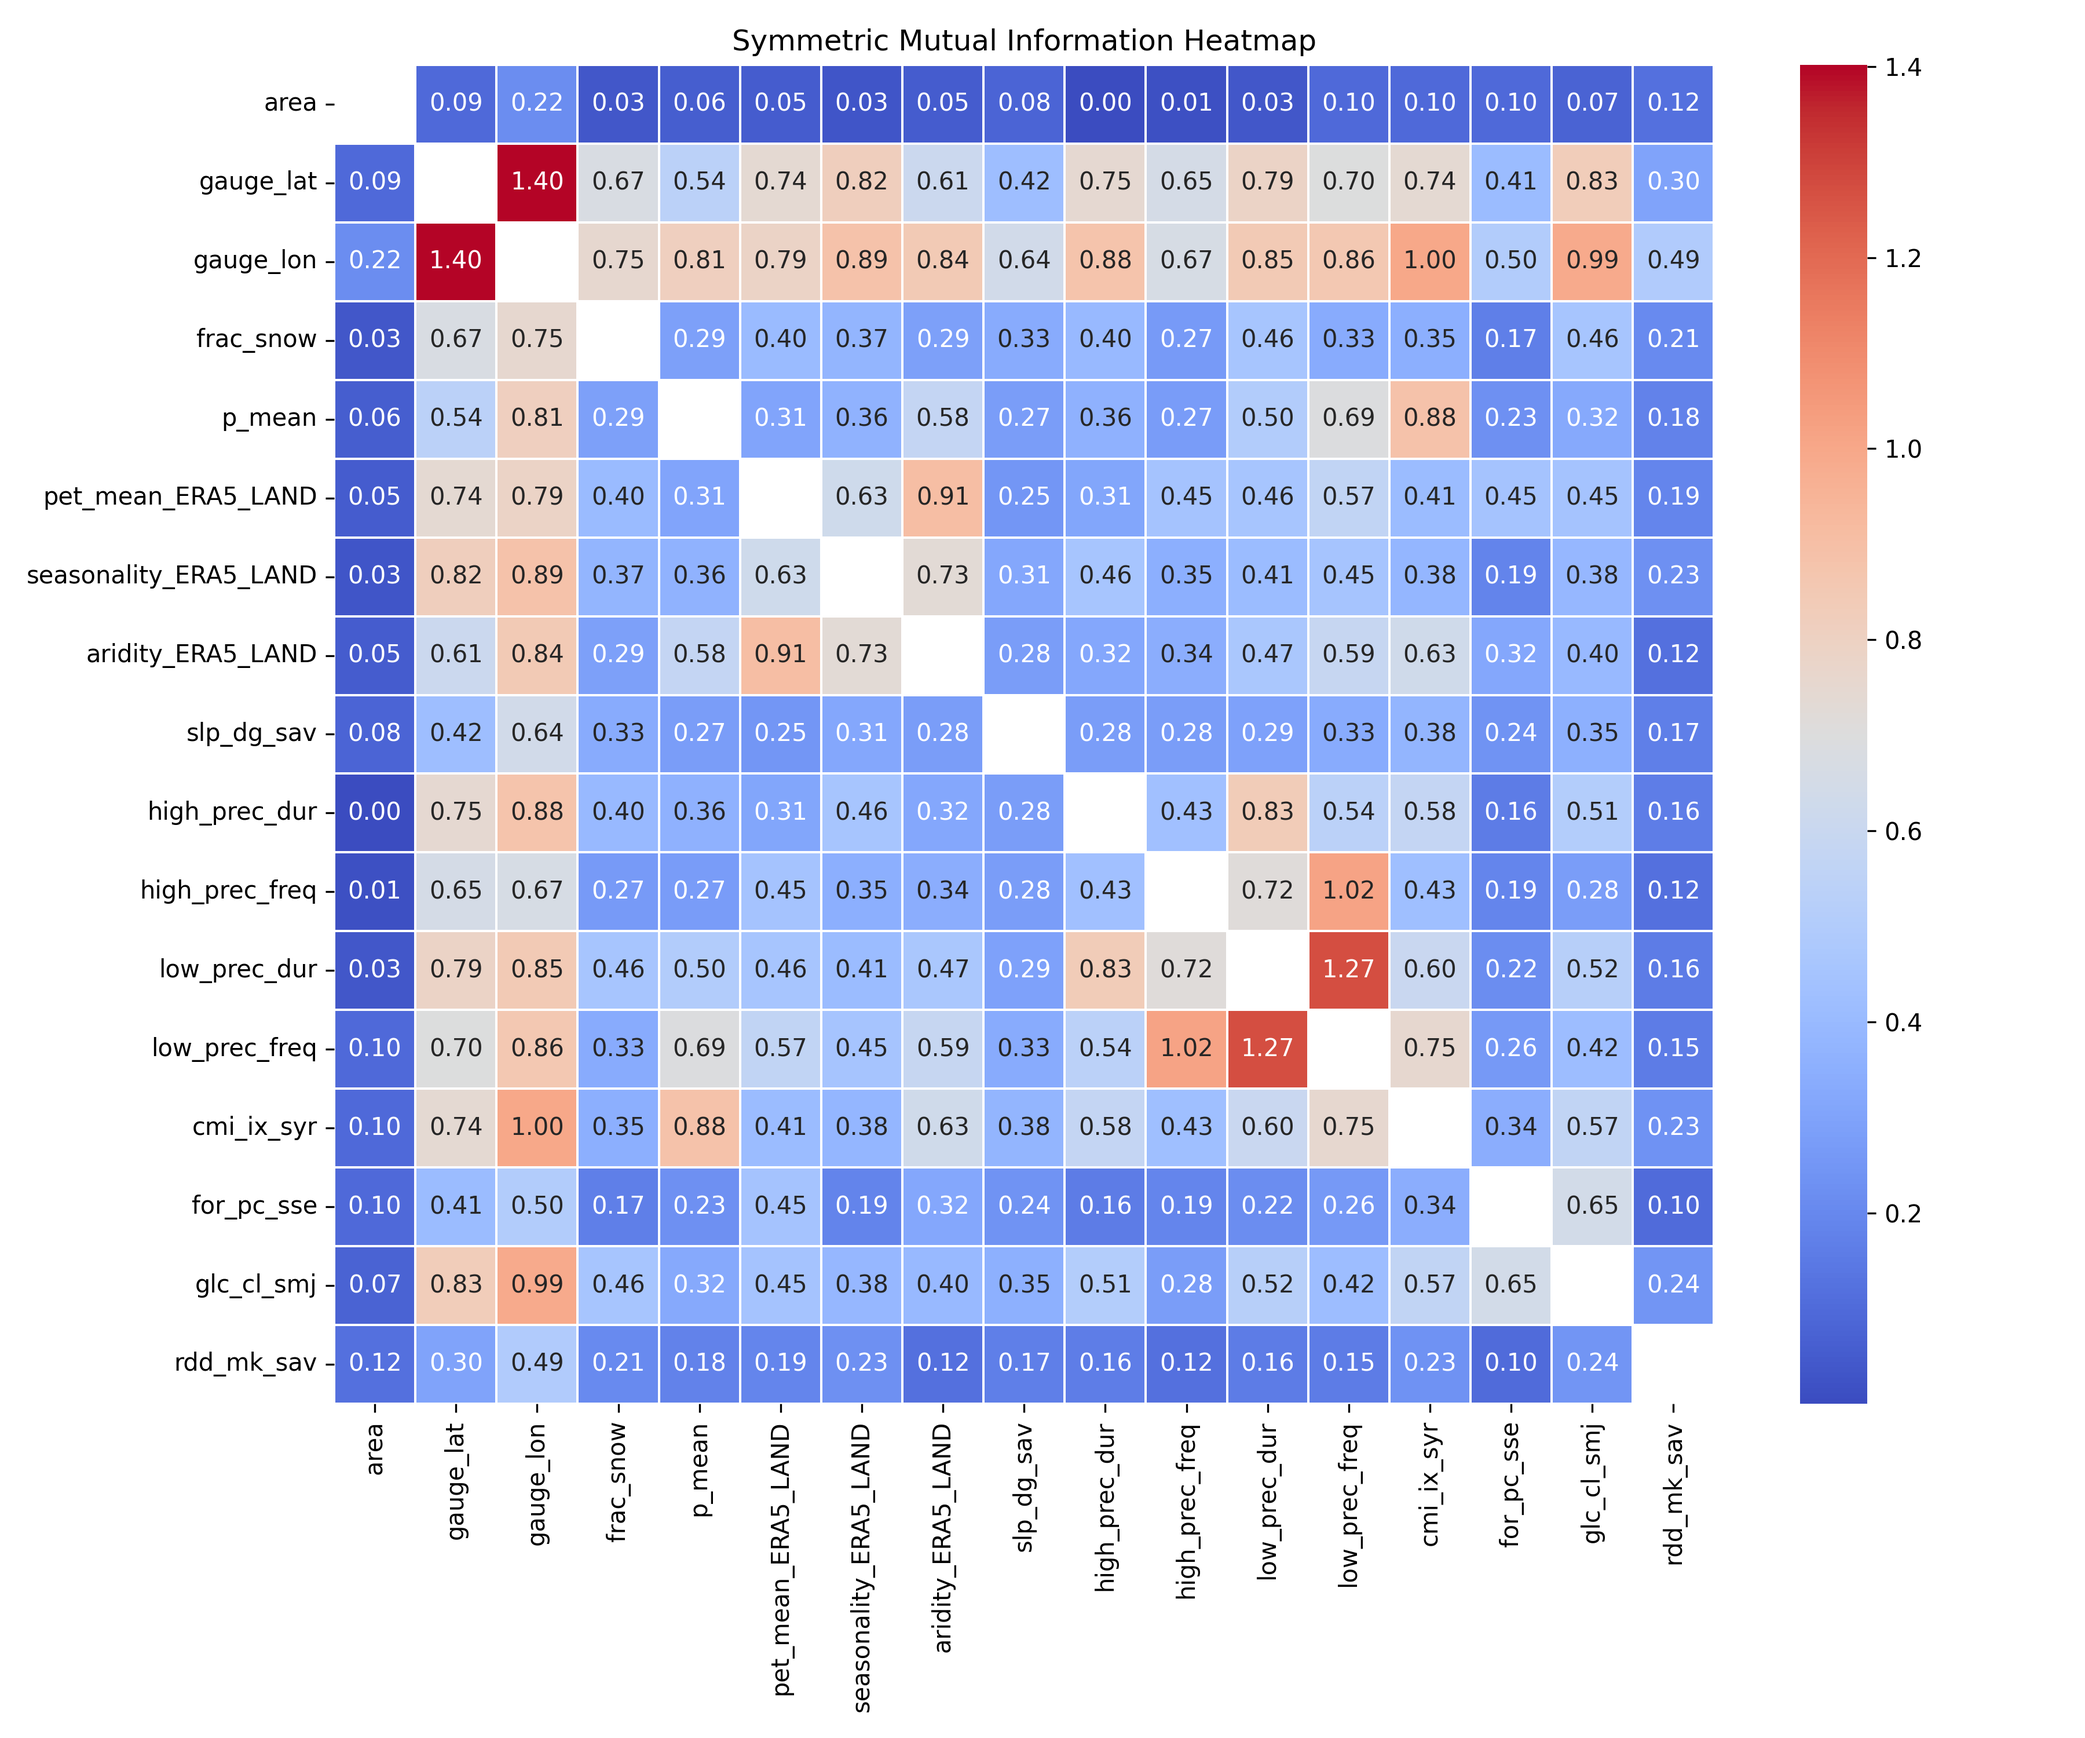
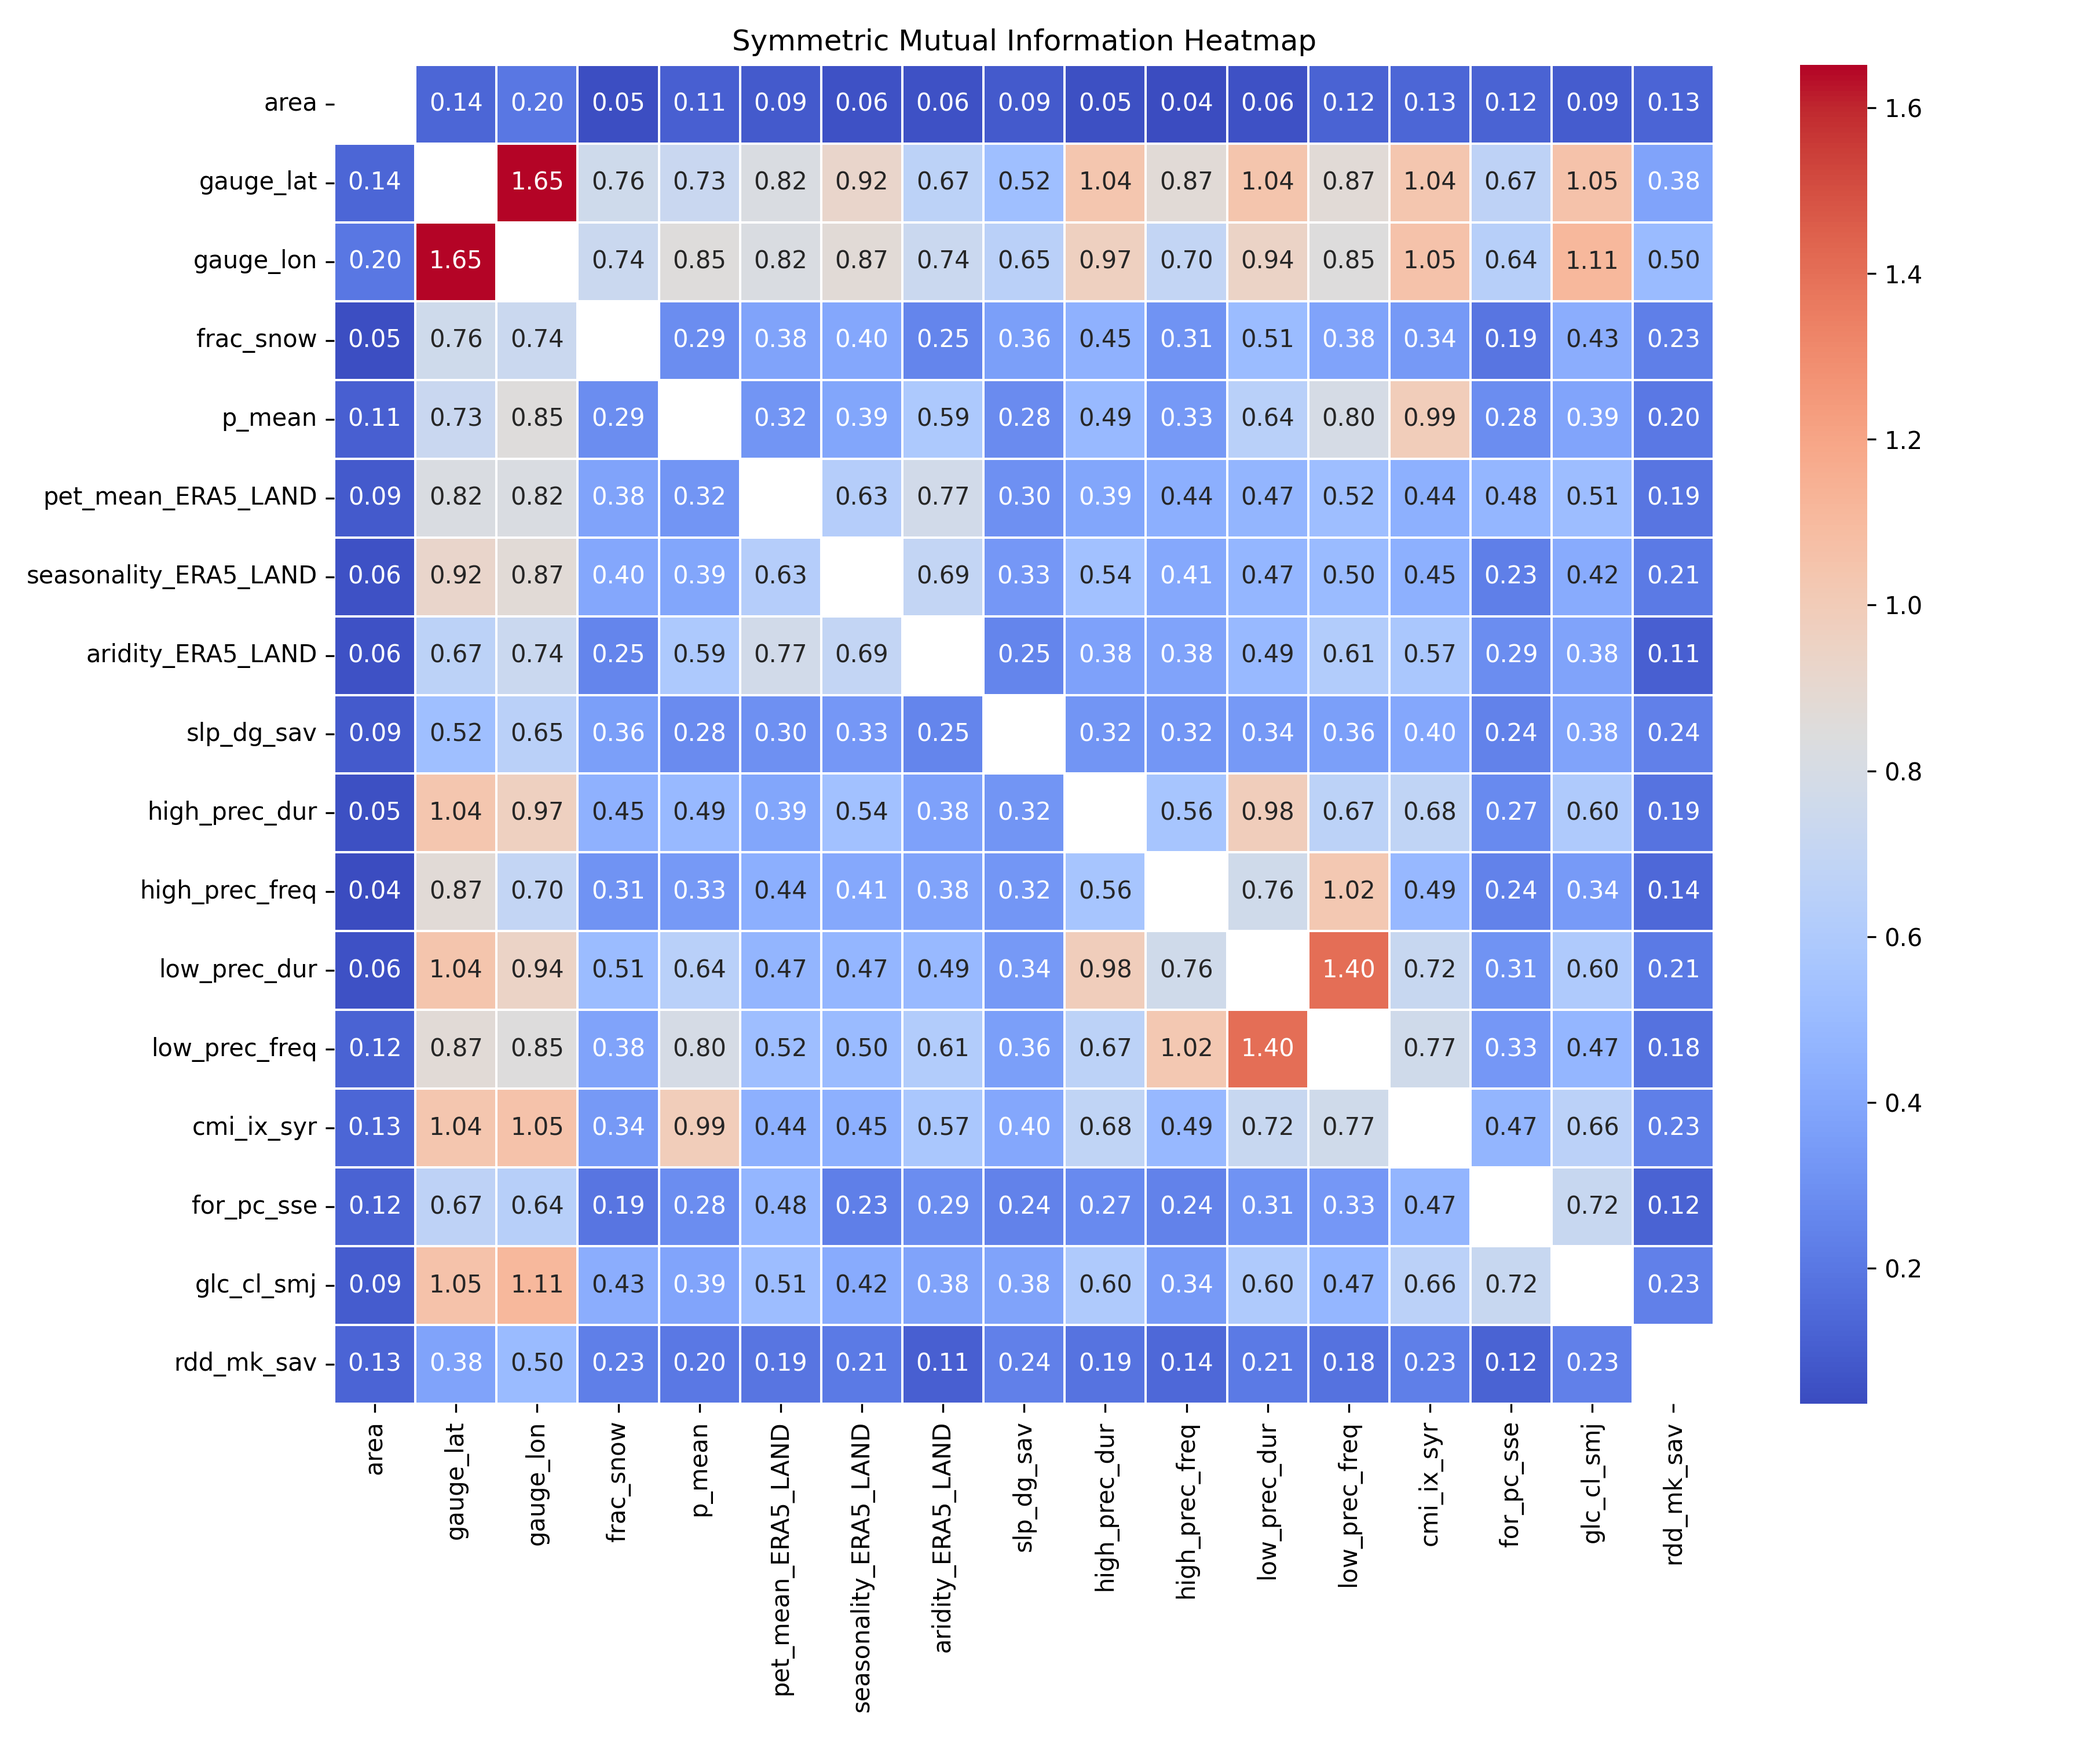
Reclassify

diff --git a/clustering/random_forest_classification.py b/clustering/random_forest_classification.py
@@ -651,7 +651,7 @@ if __name__ == "__main__":
         attributes_base_dir="/workspace/CARAVANIFY",
         timeseries_base_dir="/workspace/CARAVANIFY",
         output_dir="./classification_results",
-        cluster_assignment_path="/workspace/CAMELS-CH/clustering_results/cluster_assignments_shifted.csv",
+        cluster_assignment_path="/workspace/CAMELS-CH/clustering_results/cluster_assignments_shifted_refactor.csv",
         source_countries=["CH", "CL", "USA"],
         target_country="CA",
     )
